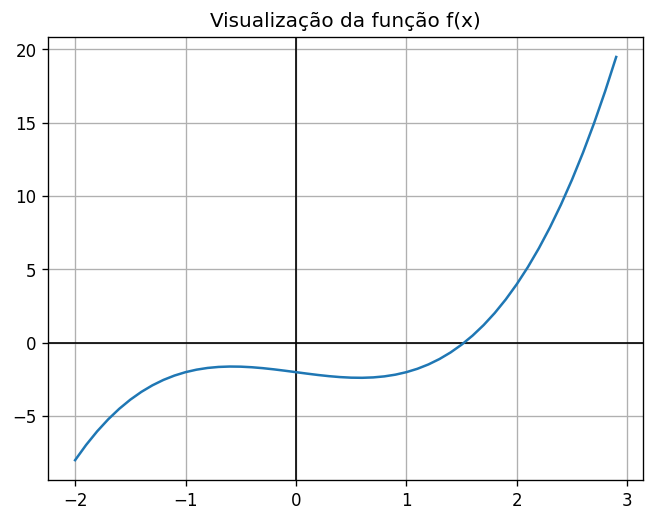
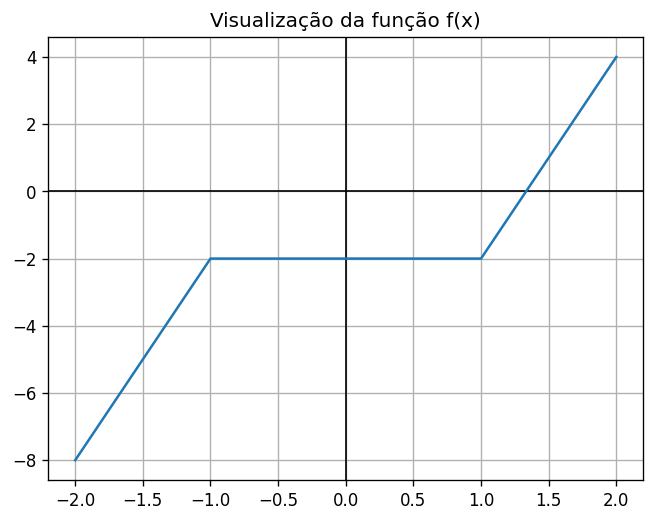
Semana 8

diff --git a/semana 8/gaussc.py b/semana 8/gaussc.py
@@ -1,0 +1,92 @@
+import numpy as np
+
+
+def lu_pivot(A: np.ndarray):
+    A = A.astype(float).copy()
+    n = A.shape[0]
+    P = np.eye(n)
+    L = np.zeros((n, n))
+    U = A.copy()
+
+    for k in range(n):
+        pivot = np.argmax(np.abs(U[k:, k])) + k
+        if np.isclose(U[pivot, k], 0.0):
+            raise np.linalg.LinAlgError("Matriz singular ou quase singular.")
+        if pivot != k:
+            U[[k, pivot], k:] = U[[pivot, k], k:]
+            P[[k, pivot], :] = P[[pivot, k], :]
+            if k > 0:
+                L[[k, pivot], :k] = L[[pivot, k], :k]
+
+        for i in range(k + 1, n):
+            L[i, k] = U[i, k] / U[k, k]
+            U[i, k:] -= L[i, k] * U[k, k:]
+
+    np.fill_diagonal(L, 1.0)
+    return P, L, U
+
+
+def lb(L: np.ndarray, B: np.ndarray) -> np.ndarray:
+    n = L.shape[0]
+    Y = np.zeros(n)
+    for i in range(n):
+        Y[i] = B[i] - np.dot(L[i, :i], Y[:i])
+    return Y
+
+
+def uy(U: np.ndarray, Y: np.ndarray) -> np.ndarray:
+    n = U.shape[0]
+    X = np.zeros(n)
+    for i in reversed(range(n)):
+        if np.isclose(U[i, i], 0.0):
+            raise np.linalg.LinAlgError(
+                "U possui pivô nulo; sistema sem solução única."
+            )
+        X[i] = (Y[i] - np.dot(U[i, i + 1 :], X[i + 1 :])) / U[i, i]
+    return X
+
+
+def lu(A: np.ndarray, B: np.ndarray) -> np.ndarray:
+    P, L, U = lu_pivot(A)
+    Pb = P @ B
+    Y = lb(L, Pb)
+    X = uy(U, Y)
+    return X
+
+
+def jacobi(A: np.ndarray, B: np.ndarray, k: int, TOL: float) -> np.ndarray:
+    A = A.astype(float)
+    B = B.astype(float)
+    n = B.shape[0]
+    X = np.zeros(n)
+    Xk = np.zeros(n)
+
+    D = np.diag(A)
+    if np.any(D == 0):
+        raise ValueError("A possui elementos diagonais nulos; Jacobi pode falhar.")
+
+    R = A - np.diagflat(D)
+
+    for _ in range(k):
+        Xk = (B - R @ X) / D
+        if np.linalg.norm(Xk - X, ord=2) < TOL:
+            return Xk
+        X = Xk.copy()
+    return X
+
+
+def seidel(A: np.ndarray, B: np.ndarray, k: int, TOL: float) -> np.ndarray:
+    A = A.astype(float)
+    B = B.astype(float)
+    n = B.shape[0]
+    X = np.zeros(n)
+
+    for _ in range(k):
+        Xk = X.copy()
+        for i in range(n):
+            s1 = np.dot(A[i, :i], X[:i])
+            s2 = np.dot(A[i, i + 1 :], Xk[i + 1 :])
+            X[i] = (B[i] - s1 - s2) / A[i, i]
+        if np.linalg.norm(X - Xk, ord=2) < TOL:
+            return X
+    return X

diff --git a/semana 8/main.py b/semana 8/main.py
@@ -1,0 +1,99 @@
+import numpy as np
+import matplotlib.pyplot as plt
+
+from bissecaoc import bissecao
+from gaussc import (
+    lu,
+    jacobi,
+    seidel,
+)
+
+# Definição da função
+def f1(x):
+    return (5.67e-8)*x**4+0.4*(x-272.975)-500.125
+
+def plot(f,x1,x2,d=0.1, number=1):
+    # Intervalo para plotar
+    x_vals = np.arange(x1, x2, d)
+    y_vals = f(x_vals)
+
+    plt.axhline(0, color="black", linewidth=1)  # eixo x
+    plt.axvline(0, color="black", linewidth=1)  # eixo y
+    plt.plot(x_vals, y_vals)
+    plt.grid(True)
+    plt.title("Visualização da função f(x)")
+
+    # Salvar gráfico como imagem
+    plt.savefig(f"semana 8/bissecao_{number}.png", dpi=120, bbox_inches="tight")
+    plt.close()
+
+from newtonraphsonc import (
+    G,
+    GN,
+    fixed_point,
+)
+
+def main():
+    # Atividade 1
+    print("-- Atividade 1 --")
+    #plot(f1,100,500,10)
+    r, i = bissecao(f1, 300, 310, 1e-15)
+    print(f"raiz = {r} , i = {i}")
+
+    print("-- Atividade 2 --")
+    A = np.array([[17, -2, -3], [-5, 21, -2], [-5, -5, 22]], dtype=float)
+    B = np.array([500, 200, 300], dtype=float)
+    print("Matriz A:")
+    print(A)
+    print("\nVetor B:")
+    print(B)
+    print("\nSolução Jacobi x:")
+    X = jacobi(A, B, 100, 1e-8)
+    print(X)
+    print("\nSolução Seidel x:")
+    X = seidel(A, B, 100, 1e-8)
+    print(X)
+
+    print("-- Atividade 3 --")
+    A = np.array([[20, 10], [10, 20]], dtype=float)
+    B = np.array([100, 100], dtype=float)
+    print("Matriz A:")
+    print(A)
+    print("\nVetor B:")
+    print(B)
+    print("\nSolução Seidel x:")
+    X = seidel(A, B, 100, 1e-8)
+    print(X)
+    I=np.sum(X)
+    print(f"Ir3=I1+I2= {I}")
+
+    print("-- Atividade 4 --")
+
+    def F(x):
+        x1, x2 = x
+        return np.array(
+            [
+                x1**4 +0.06823*x1 - x2**4 -0.05848*x2 -0.01753,
+                x1**4 +0.05848*x1 - 2*x2**4 -0.11696*x2 -0.00254,
+            ],
+            dtype=float,
+        )
+
+    def J(x):
+        x1, x2 = x
+        return np.array(
+            [
+                [4*x1**3 +0.06823,4*x1**3 +0.05848],
+                [- 4*x2**3 -0.05848, - 8*x2**3 -0.11696],
+            ],
+            dtype=float,
+        )
+
+    x = np.array([1.0, 1.0], dtype=float)
+    r = fixed_point(x, lambda x: G(x, F, J))
+    print(r)
+    r = fixed_point(x, lambda x: GN(x, F))
+    print(r)
+
+if __name__ == "__main__":
+    main()

diff --git a/semana 8/bissecaoc.py b/semana 8/bissecaoc.py
@@ -1,0 +1,23 @@
+def bissecao(f,     # função que queremos encontrar a raiz
+              a,    # a início do intervalo
+              b,    # b fim do intervalo
+              TOL,   # erro tolerado
+              iter=16):  # número máximo de iterações
+    c = (a + b) / 2  # ponto médio entre os valores a e b
+    if f(a) * f(b) > 0:
+        raise ValueError("Nenhuma raiz encontrada no intervalo.")
+    else:
+        i = 0  # variável contador
+        ERRO = abs(f(b) - f(a))  # diferença entre os valores de y
+
+        while ERRO > TOL and i < iter:  # loop iterativo com parada
+            c = (a + b) / 2.0
+            if f(c) == 0:
+                return c, i
+            elif f(a) * f(c) < 0:
+                b = c
+            else:
+                a = c
+            i += 1
+            ERRO = abs(f(b) - f(a))
+        return c, i

diff --git a/semana 8/newtonraphsonc.py b/semana 8/newtonraphsonc.py
@@ -1,0 +1,34 @@
+import numpy as np
+from scipy.optimize import approx_fprime
+
+
+def JN(x, F, eps=1e-8):
+    x = np.asarray(x, dtype=float)
+    n = x.size
+    Jnum = np.zeros((n, n), dtype=float)
+
+    def fi(v):
+        return F(v)[i]
+
+    for i in range(n):
+        Jnum[i, :] = approx_fprime(x, fi, epsilon=eps)
+
+    return Jnum
+
+
+def G(x, F, J):
+    return x - np.linalg.inv(J(x)) @ F(x)
+
+
+def GN(x, F):
+    return x - np.linalg.inv(JN(x, F)) @ F(x)
+
+
+def fixed_point(a, g, TOL=1e-8, iter=1000):
+    x = g(a)
+    i = 1
+    while np.linalg.norm(x - a) > TOL and i < iter:
+        a = x
+        x = g(a)
+        i += 1
+    return x

diff --git a/semana 8/pontofixoc.py b/semana 8/pontofixoc.py
@@ -1,0 +1,26 @@
+import numpy as np
+from scipy.optimize import approx_fprime
+
+def pontofixo(a, g, TOL=1e-8):
+    x = g(a)
+    while abs(x - a) > TOL:
+        a = x
+        x = g(a)
+    return x
+
+def newton_raphson(a, f, TOL=1e-8, df=None):
+    if df is None:
+        def dfn(x):
+            return approx_fprime(np.array([x]), lambda v: f(v[0]))[0]
+    else:
+        dfn = df
+    g = lambda x: x - f(x) / dfn(x)
+    return pontofixo(a, g, TOL)
+
+def secante(a, b, f, TOL=1e-8):
+    g = lambda a, b: (a * f(b) - b * f(a)) / (f(b) - f(a))
+    x = g(a, b)
+    while abs(x - b) > TOL:
+        a, b = b, x
+        x = g(a, b)
+    return x

diff --git a/semana 4/main.py b/semana 4/main.py
@@ -53,7 +53,7 @@ def plot(f,x1,x2,d=0.1, number=1):
 
 def main():
     print("-- Atividade 1 --")
-    #plot(f1,-2,3,1)
+    plot(f1,-2,3,1)
     r, i = bissecao(f1, 1, 2, 1e-15)
     print(f"raiz = {r} , i = {i}")
     print("-- Atividade 2 --")
